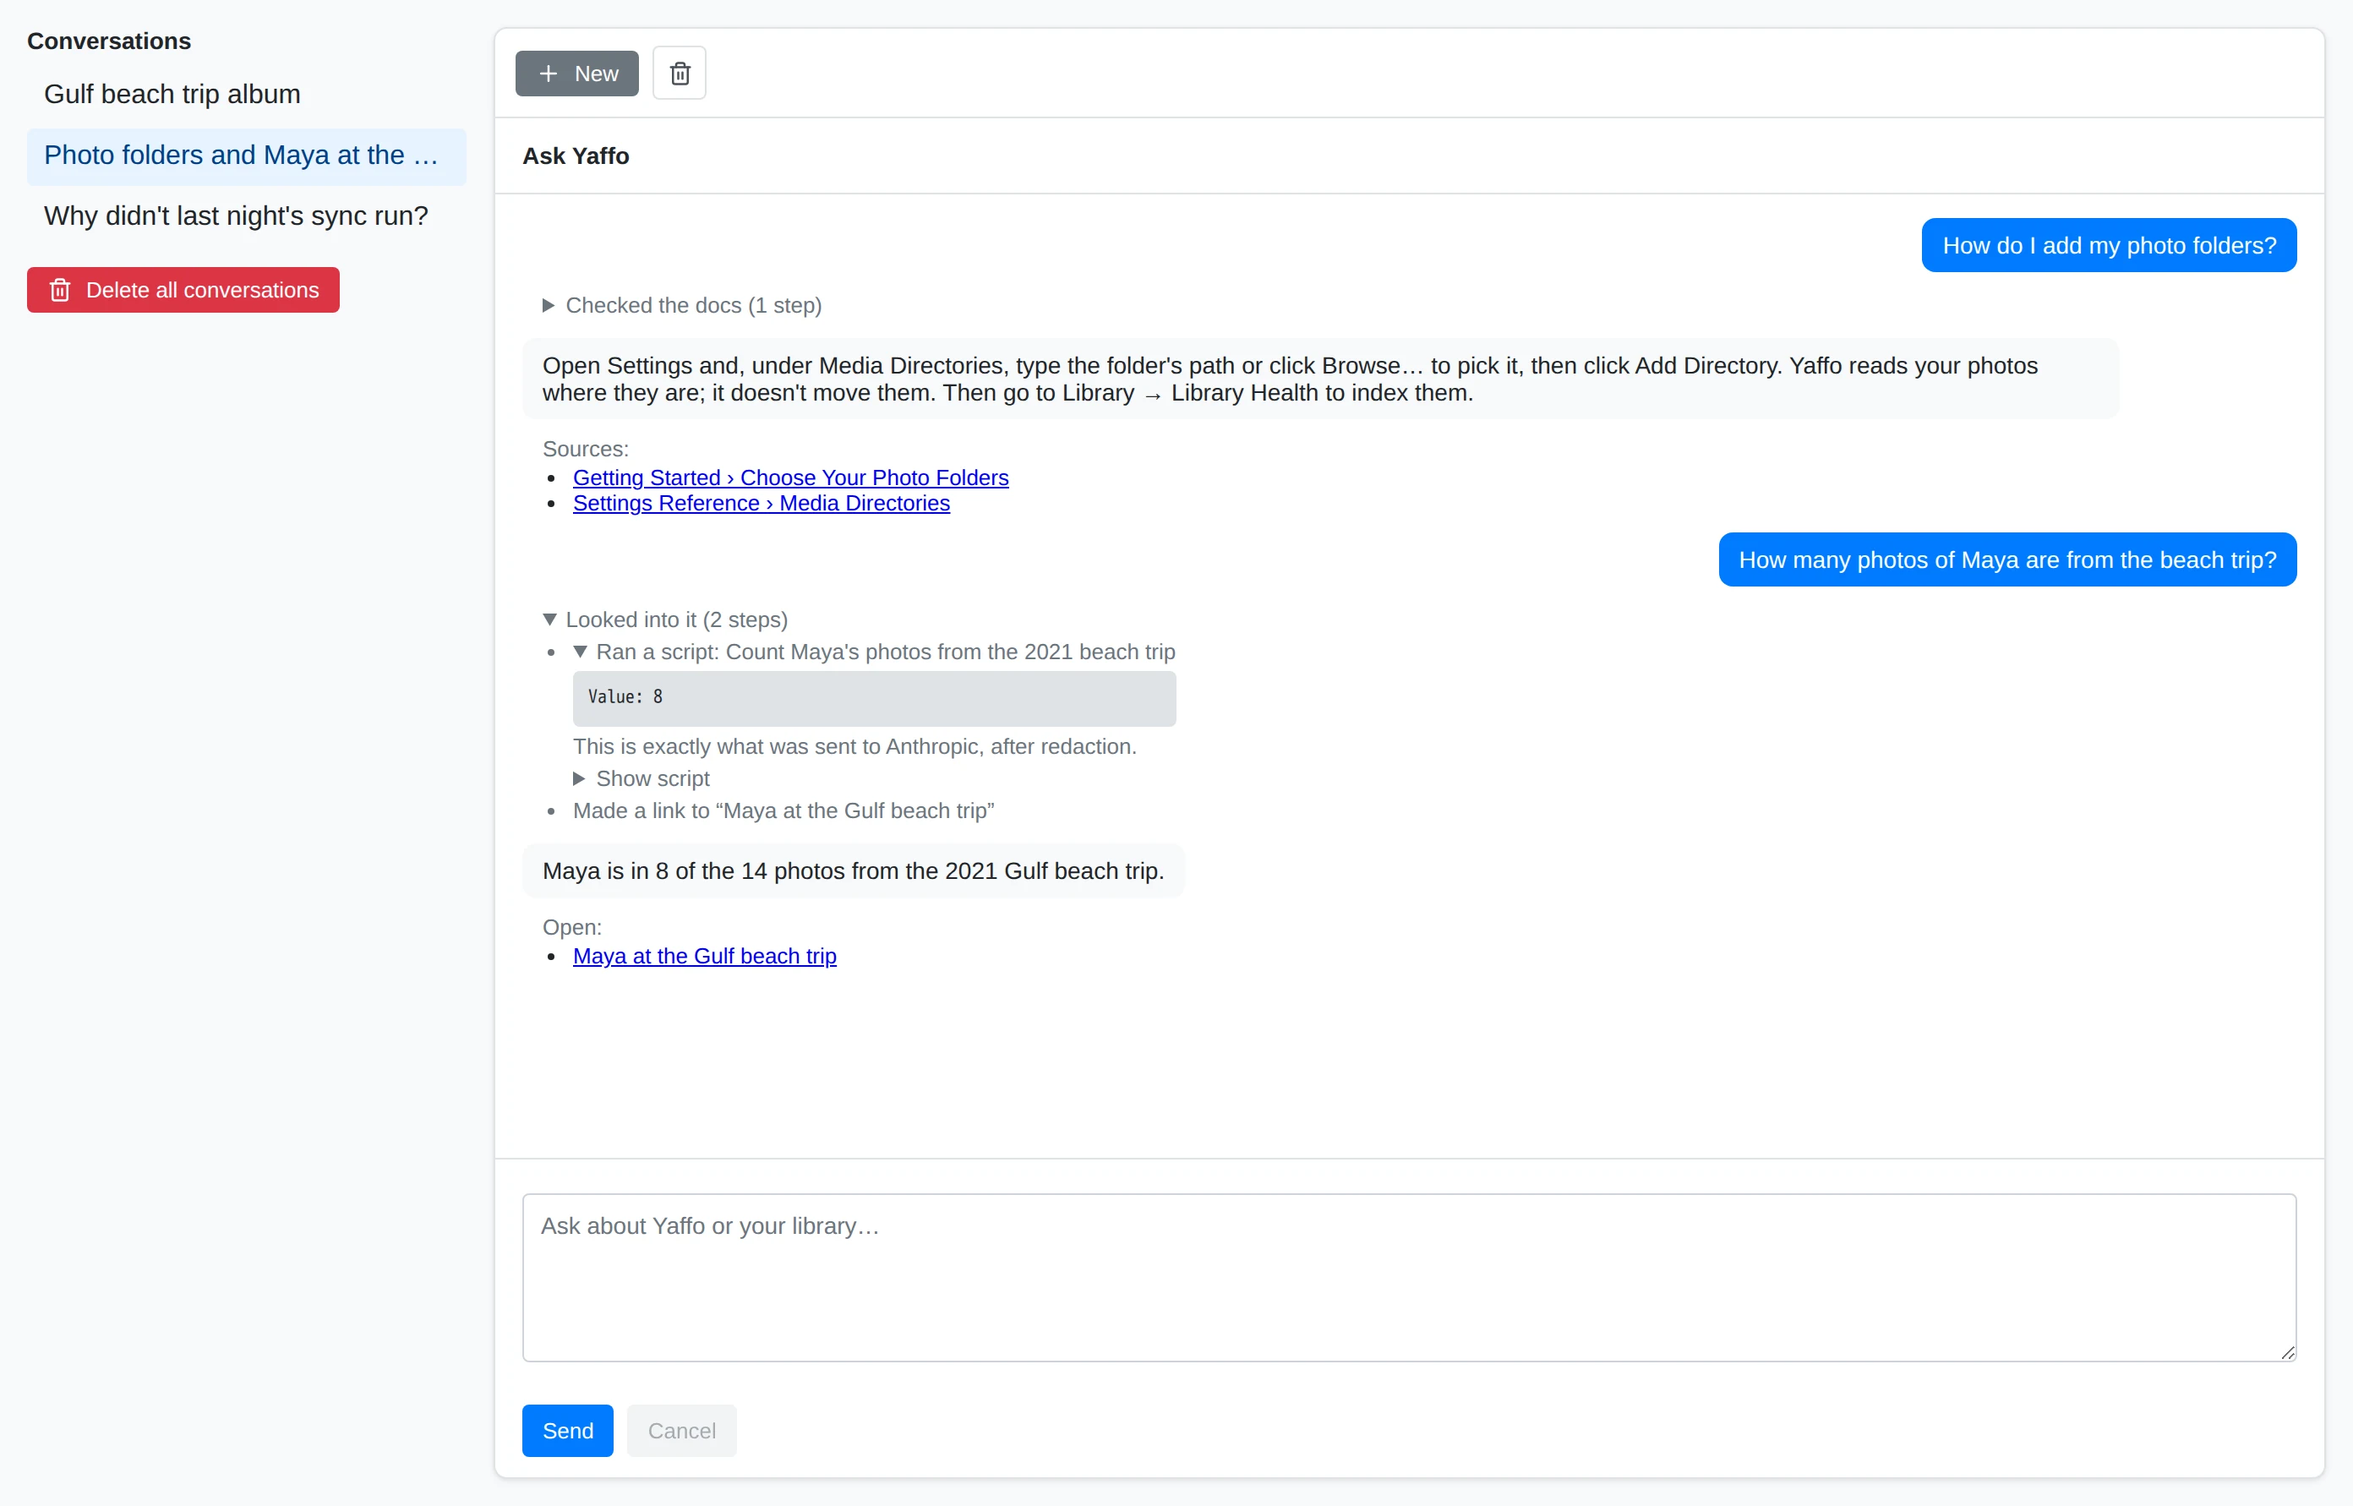
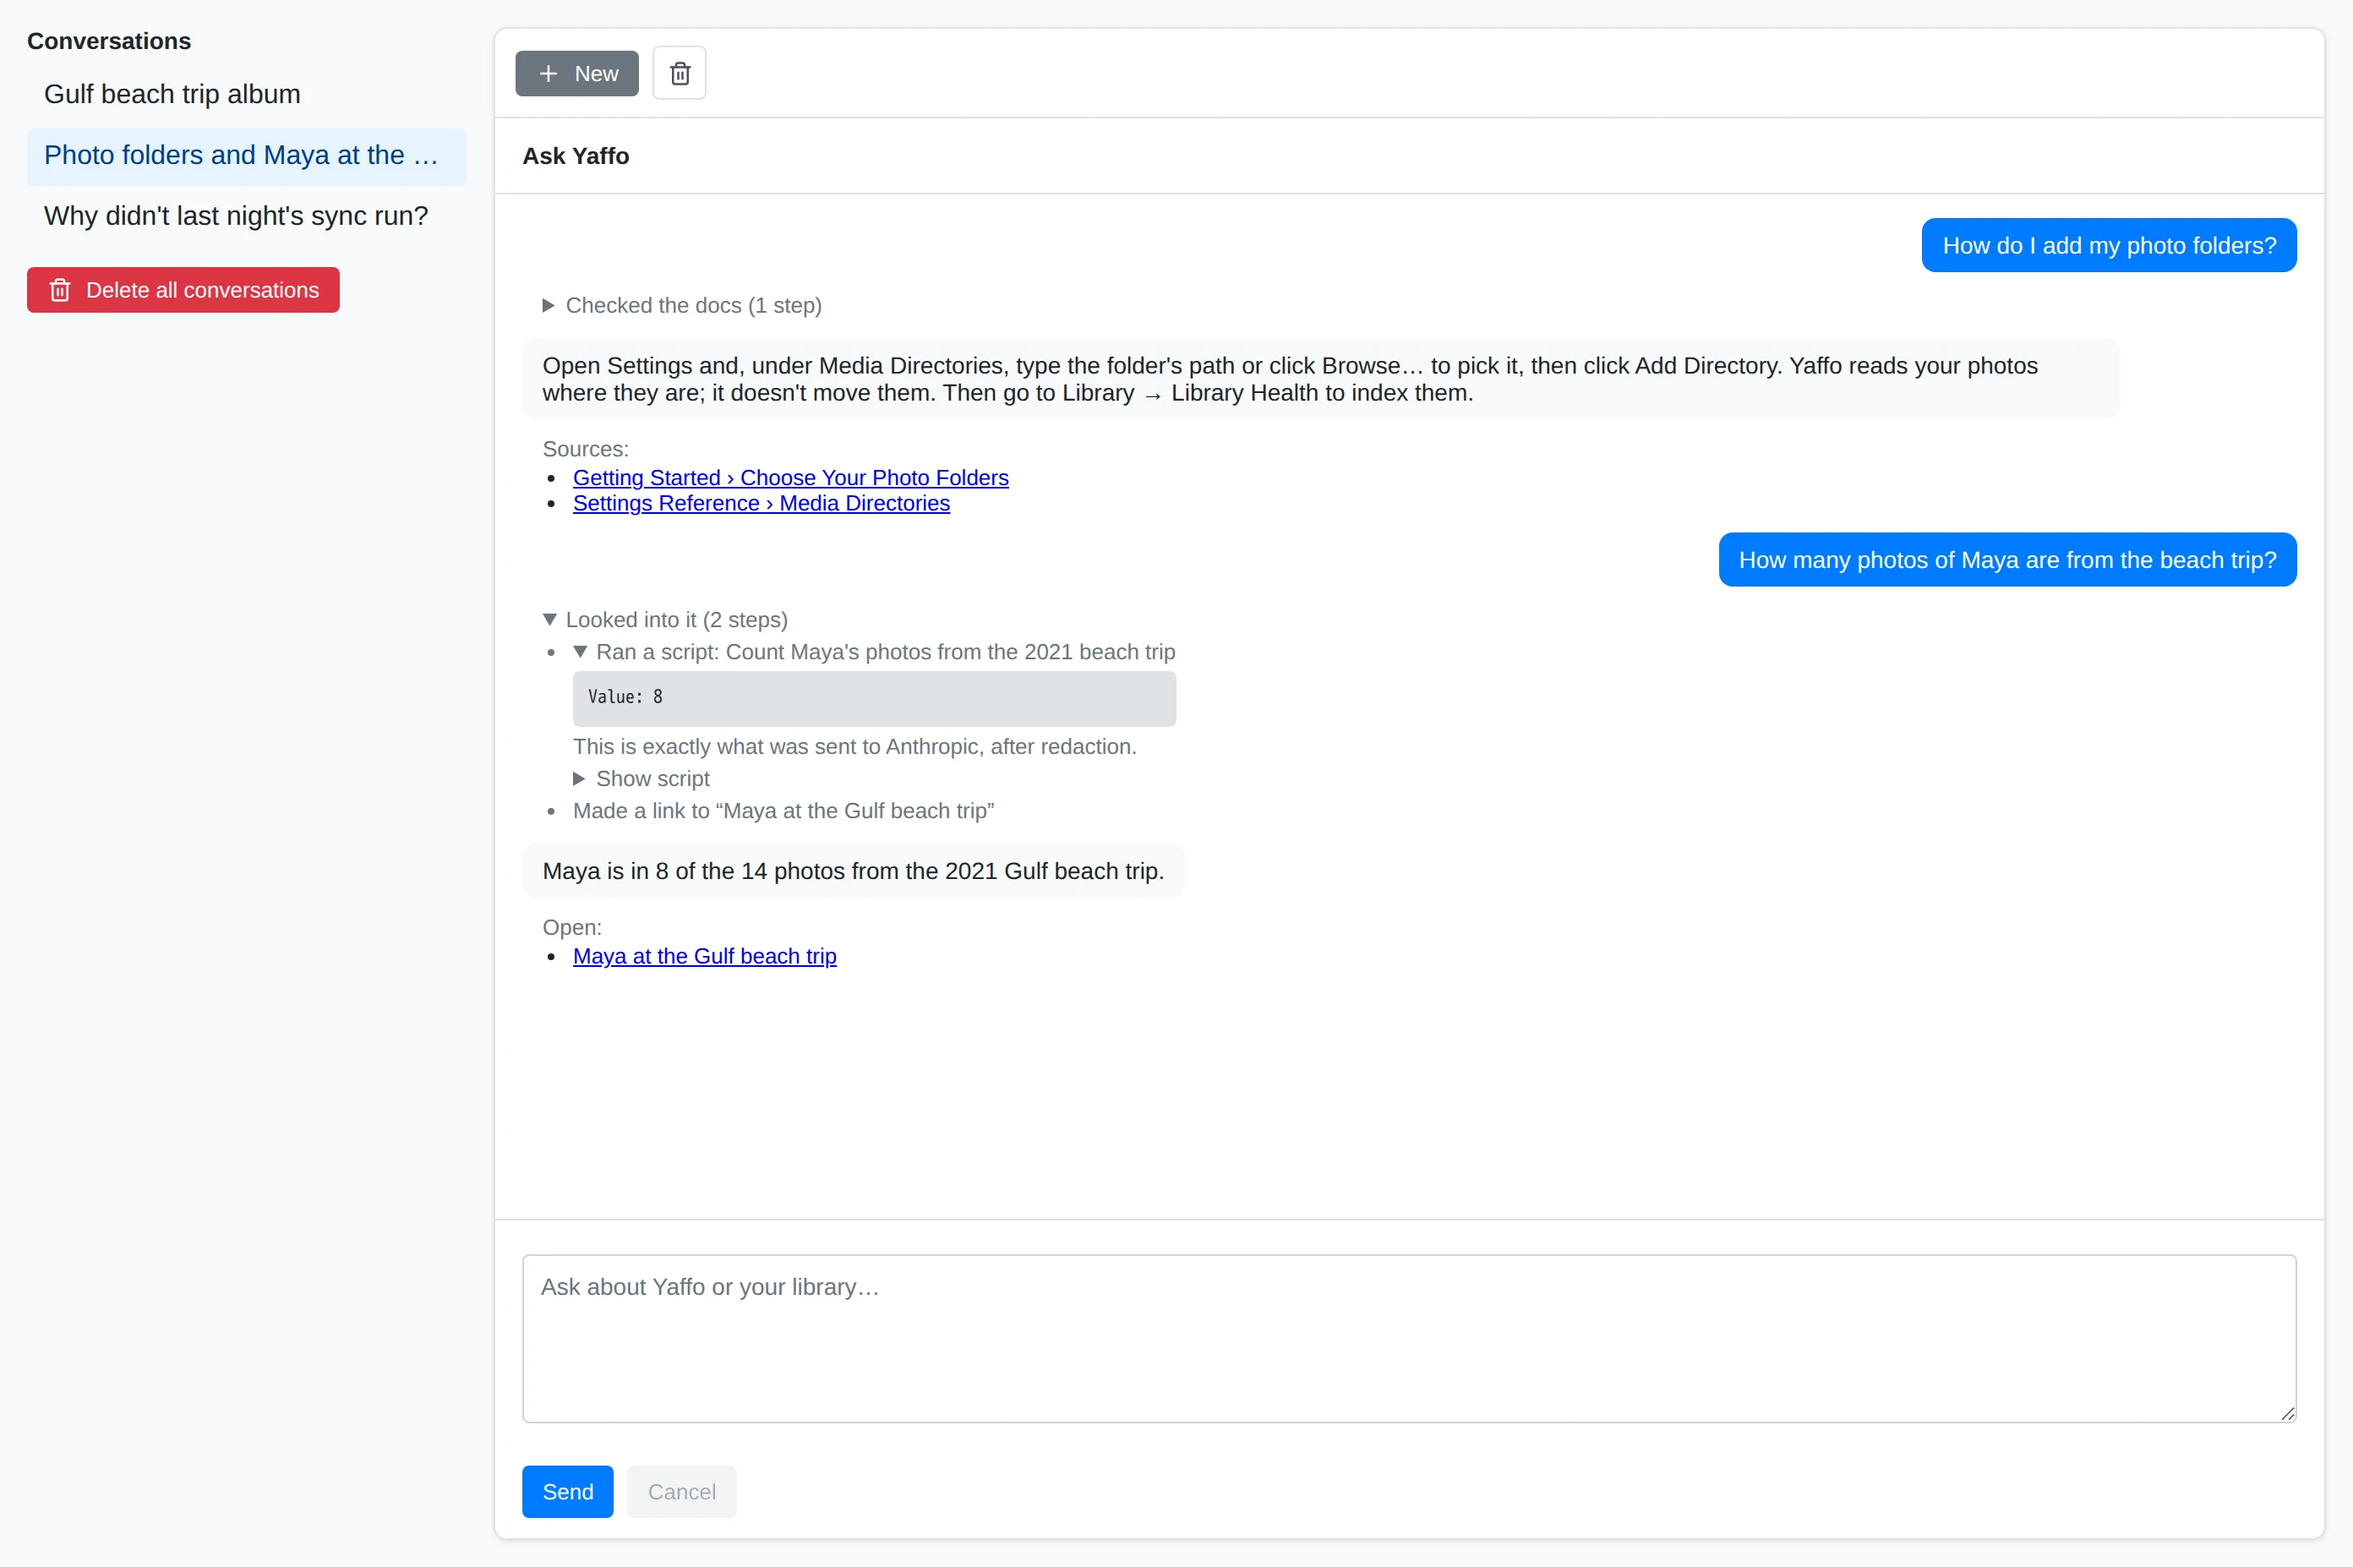
Auto-heal user documentation

diff --git a/yaffo_ui_tests/user_doc_automation/reference-maintenance/settings/settings.ts b/yaffo_ui_tests/user_doc_automation/reference-maintenance/settings/settings.ts
@@ -13,6 +13,20 @@ export default defineWalkthrough({
             // Keep them visible in the guide while excluding them from pixel comparison.
             ignoreRegions: [".media-dir-path", "#current-thumbnail-dir", "#thumbnail-size"],
             setup: async (page) => {
+                // The "Pages" strip under the navbar is now a server-persisted
+                // preference (base.html renders `hidden` from `show_pages_bar` and
+                // nav.js saves the toggle through PUT /pages/bar-visibility), so it
+                // is shared state: the custom-pages walkthrough expands the strip and
+                // that choice now sticks for every later visit. The clip below ends at
+                // the viewport bottom, so an expanded strip would shorten this capture
+                // by the strip's height depending on which walkthrough ran first. Pin it
+                // collapsed — the state a fresh install renders — instead of inheriting
+                // whatever the shared docs database last saved.
+                await page.evaluate(() => {
+                    const bar = document.getElementById("navbar-pages-bar");
+                    if (bar) bar.hidden = true;
+                });
+
                 // Wait for thumbnail stats stream to settle so count and size are rendered
                 await page.waitForFunction(() => {
                     const el = document.getElementById("thumbnail-size");

diff --git a/yaffo_ui_tests/user_doc_automation/start-here/ask-yaffo/memories/start-here/ask-yaffo.md b/yaffo_ui_tests/user_doc_automation/start-here/ask-yaffo/memories/start-here/ask-yaffo.md
@@ -1,0 +1,17 @@
+# ask-yaffo
+
+Last triage (ask-yaffo-conversation.webp): canvas height grew 1782 -> 1854 device px
+(+36 CSS px) after chrome diffs (templates/base.html, static/nav.js initNavPagesBar
+signature, static/app.js). Whole conversation (list, header, messages, sources,
+expanded script activity, Open link) is pixel-identical; only the bottom-anchored
+composer + Send/Cancel shift down uniformly.
+
+=> The .assistant-page clip is bottom-anchored inside a container sized off the page
+chrome, so any nav/pages-bar height change moves the composer and changes the shot's
+height without changing content. Treat such pure vertical shifts as layout, not as a
+walkthrough or app defect; nothing in the prose depends on the composer's position.
+
+Fixture facts used by the shots: conversations 901 (HELP, "Photo folders and Maya at
+the ..." / "8 of the 14"), 902 (album/plan), 900 (OLDER); second
+details.assistant-activity is the library-question script that the shot expands.
+No provider key in the sandbox: all assistant endpoints are simulated.

diff --git a/yaffo_ui_tests/user_doc_automation/start-here/getting-started/memories/start-here-getting-started.md b/yaffo_ui_tests/user_doc_automation/start-here/getting-started/memories/start-here-getting-started.md
@@ -19,6 +19,12 @@
   dependency diff on the page: media/view.css, responsive.css, index.css, nav.js...). Geometry
   is still dvh/viewport-derived, content inside the overlap still pixel-identical, so still
   fixture/frame, not the product change the diff touches -> quarantine, still needs a pinned crop.
+- Recurrence again (later run): 2784x2106 -> 2784x2178 (+72 device = +36 CSS px; pane now
+  equals the configured 1400x1150 viewport: 100dvh-60 = 1090 CSS). 215122 px differ, 200448
+  of them the new bottom band; ~14.7k inside the overlap = the sidebar's `overflow:hidden`
+  clip point moving with `max-height: calc(100dvh - navbar - 36px)`, revealing the rest of
+  the "No tags" placeholder and the top of the always-present "Edit Tags" `.detail-actions`
+  button (templates/media/view.html). Same dvh/viewport frame signature -> quarantine.
 - Prose unaffected: the section text lists preview / file info / capture date+device /
   location / people / faces / labels, all still visible; nothing describes the tags
   section.
